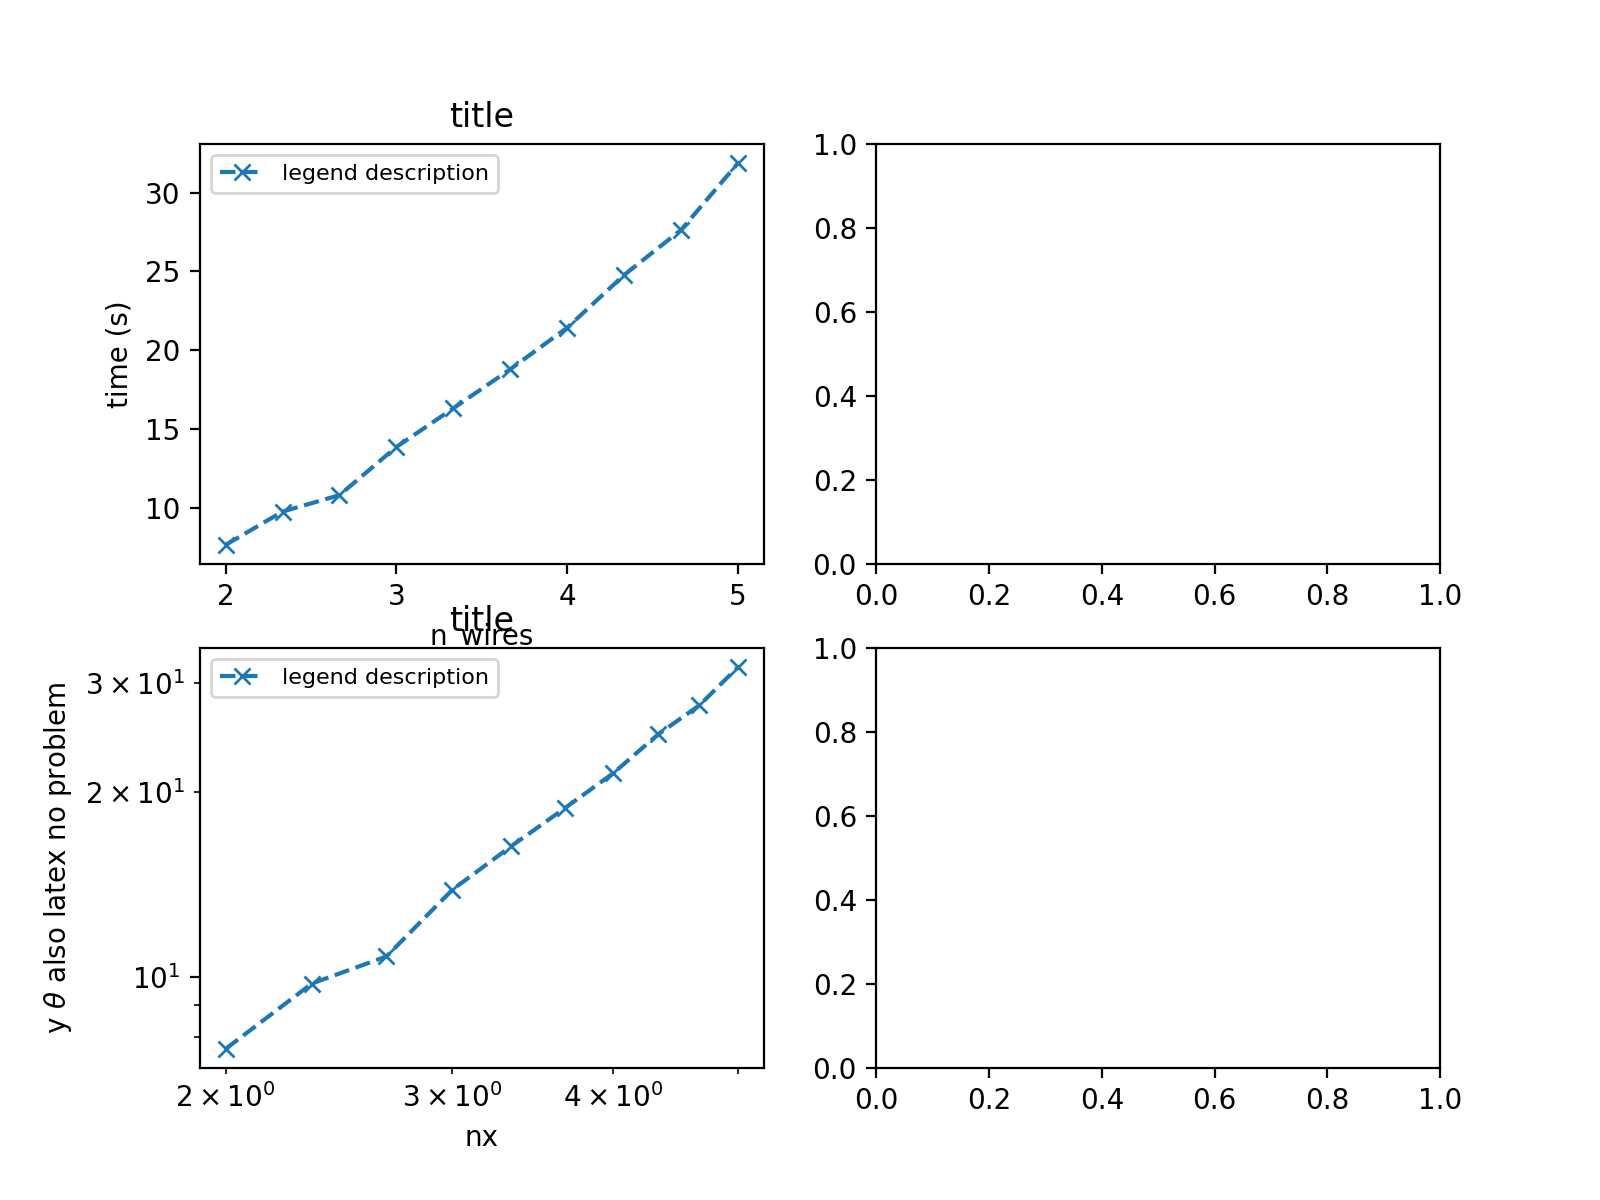
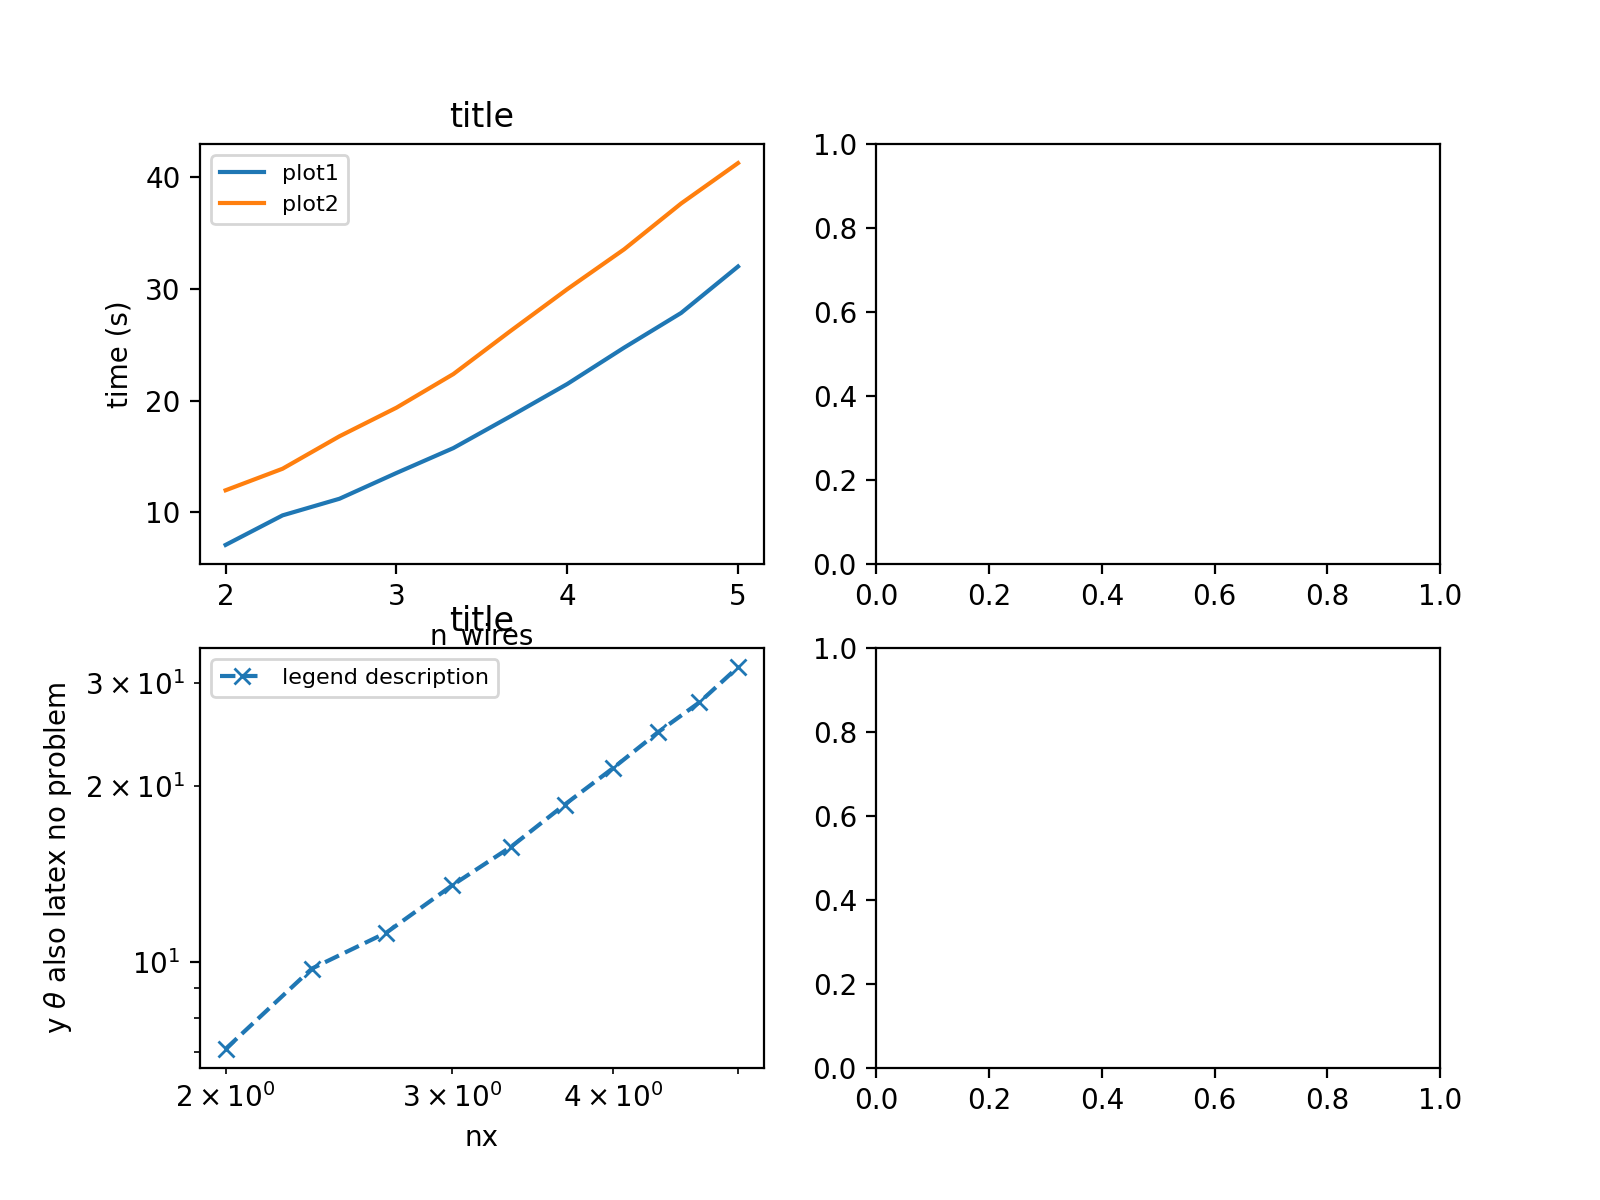
venga

diff --git a/plots.py b/plots.py
@@ -8,8 +8,12 @@ ax = axs[0,0]
 x = np.linspace(2,5,10)
 y = x**2 + x + 1 + np.random.rand(len(x)) # some random data
 
+z = np.linspace(2,5,10)
+t = z**2 + z + 1 + np.random.rand(len(z)) + 2*z # some random data
+
 ax.set_title("title")
-ax.plot(x, y , "x--", label="legend description")
+ax.plot(x, y , label="plot1")
+ax.plot(z, t , label="plot2")
 ax.legend(fontsize=8)
 ax.set_xlabel("n_wires")#, fontsize=16)
 ax.set_ylabel("time (s)")#, fontsize=16)
@@ -26,23 +30,27 @@ ax.set_ylabel("y $\\theta$ also latex no problem")#, fontsize=16)
 ax.set_yscale("log")
 ax.set_xscale("log")
 
-# ax = axs[2]
+
+# ax = axs[0,0]
+
+# x = np.linspace(2,5,10)
+# y = x**2 + x + 1 + np.random.rand(len(x)) # some random data
 
 # ax.set_title("title")
 # ax.plot(x, y , "x--", label="legend description")
-# ax.legend(fontsize=14)
-# ax.set_xlabel("nx", fontsize=16)
-# ax.set_ylabel("y $\\theta$ also latex no problem", fontsize=16)
-# ax.set_yscale("log")
-# ax.set_xscale("log")
+# ax.legend(fontsize=8)
+# ax.set_xlabel("n_wires")#, fontsize=16)
+# ax.set_ylabel("time (s)")#, fontsize=16)
+# ax.set_yscale("linear")
+# ax.set_xscale("linear")
 
-# ax = axs[3]
+# ax = axs[1,0]
 
 # ax.set_title("title")
 # ax.plot(x, y , "x--", label="legend description")
-# ax.legend(fontsize=14)
-# ax.set_xlabel("nx", fontsize=16)
-# ax.set_ylabel("y $\\theta$ also latex no problem", fontsize=16)
+# ax.legend(fontsize=8)
+# ax.set_xlabel("nx")#, fontsize=16)
+# ax.set_ylabel("y $\\theta$ also latex no problem")#, fontsize=16)
 # ax.set_yscale("log")
 # ax.set_xscale("log")
 
